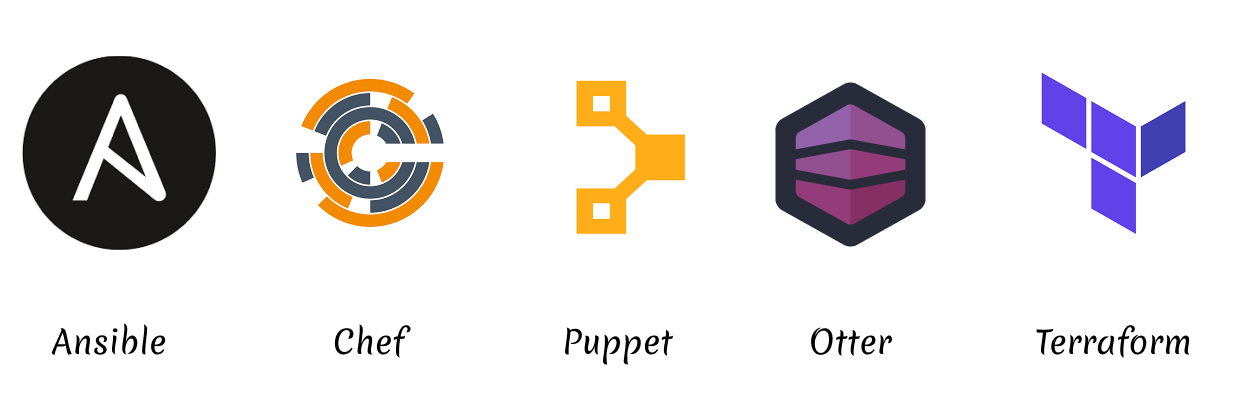
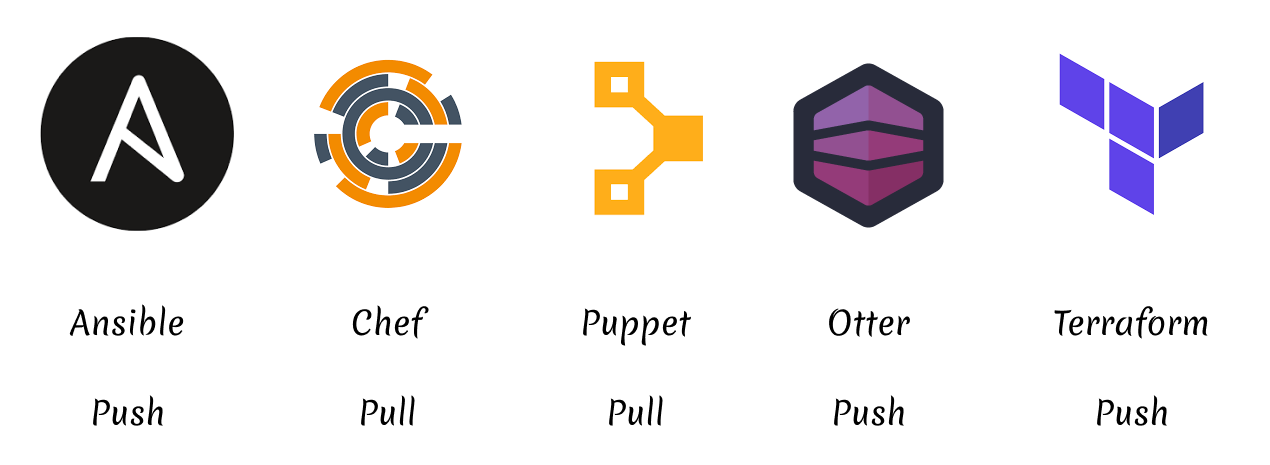
Added a bit more info on IaC

diff --git a/notes/IaC.md b/notes/IaC.md
@@ -41,6 +41,12 @@ Orchestration means arranging or coordinating multiple systems. It's also used t
 
 Configuration management is part of provisioning. Basically, that's using a tool like Chef, Puppet or Ansible to configure our server. *Provisioning* often implies it's the first time we do it. *Configuration management* usually happens repeatedly.
 
+## Difference between push and pull configuration management
+
+Pull Model - Nodes are dynamically updated with the configurations that are present in the server.
+
+Push Model - Centralised server pushes the configuration on the nodes.
+
 ## What is Ansible
 
 Ansible is a simple IT automation engine that automates cloud provisioning, configuration management, application deployment, infra-service orchestration, and many other IT needs.
@@ -69,7 +75,6 @@ DevOps best practices are also applied to infrastructure in IaC as infrastructur
 ### Terraform
 
 Terraform is a tool that allows you to define both cloud and on-prem resources in human-readable configuration files that you can version, reuse, and share. You can use a consistent workflow to provision and manage all of your infrastructure throughout its lifecycle. Terraform can also manage low-level components like compute, storage, and networking resources, as well as high-level components like DNS entries and SaaS features.
-
 
 ## How does it benefit the business
 
